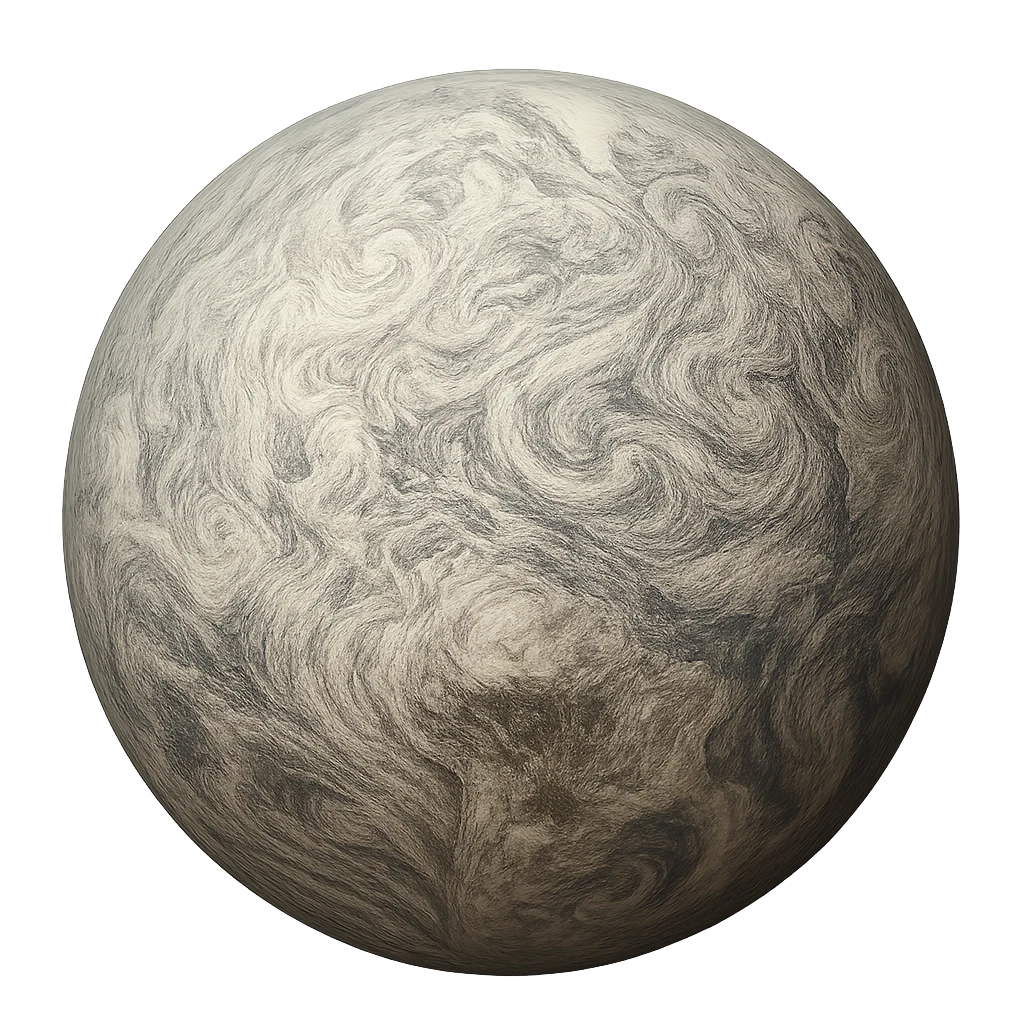
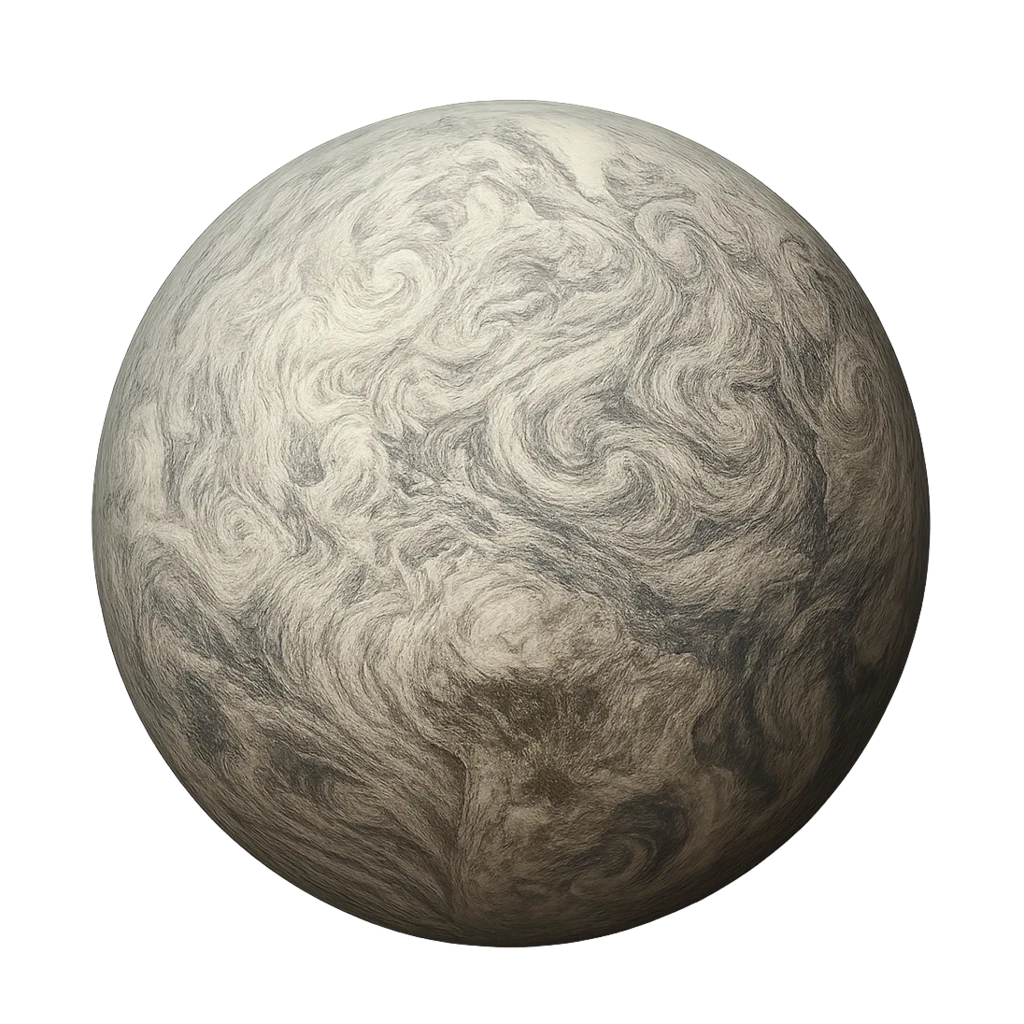
platetsconfig

diff --git a/app.config.js b/app.config.js
@@ -48,7 +48,7 @@ module.exports = {
       softwareKeyboardLayoutMode: "resize",
     
       package: "com.usualsuspect29.craveoffapp",
-      versionCode: 48,
+      versionCode: 49,
       notification: {
         icon: "./assets/images/ic_launcher.png",
         color: "#6366f1"
